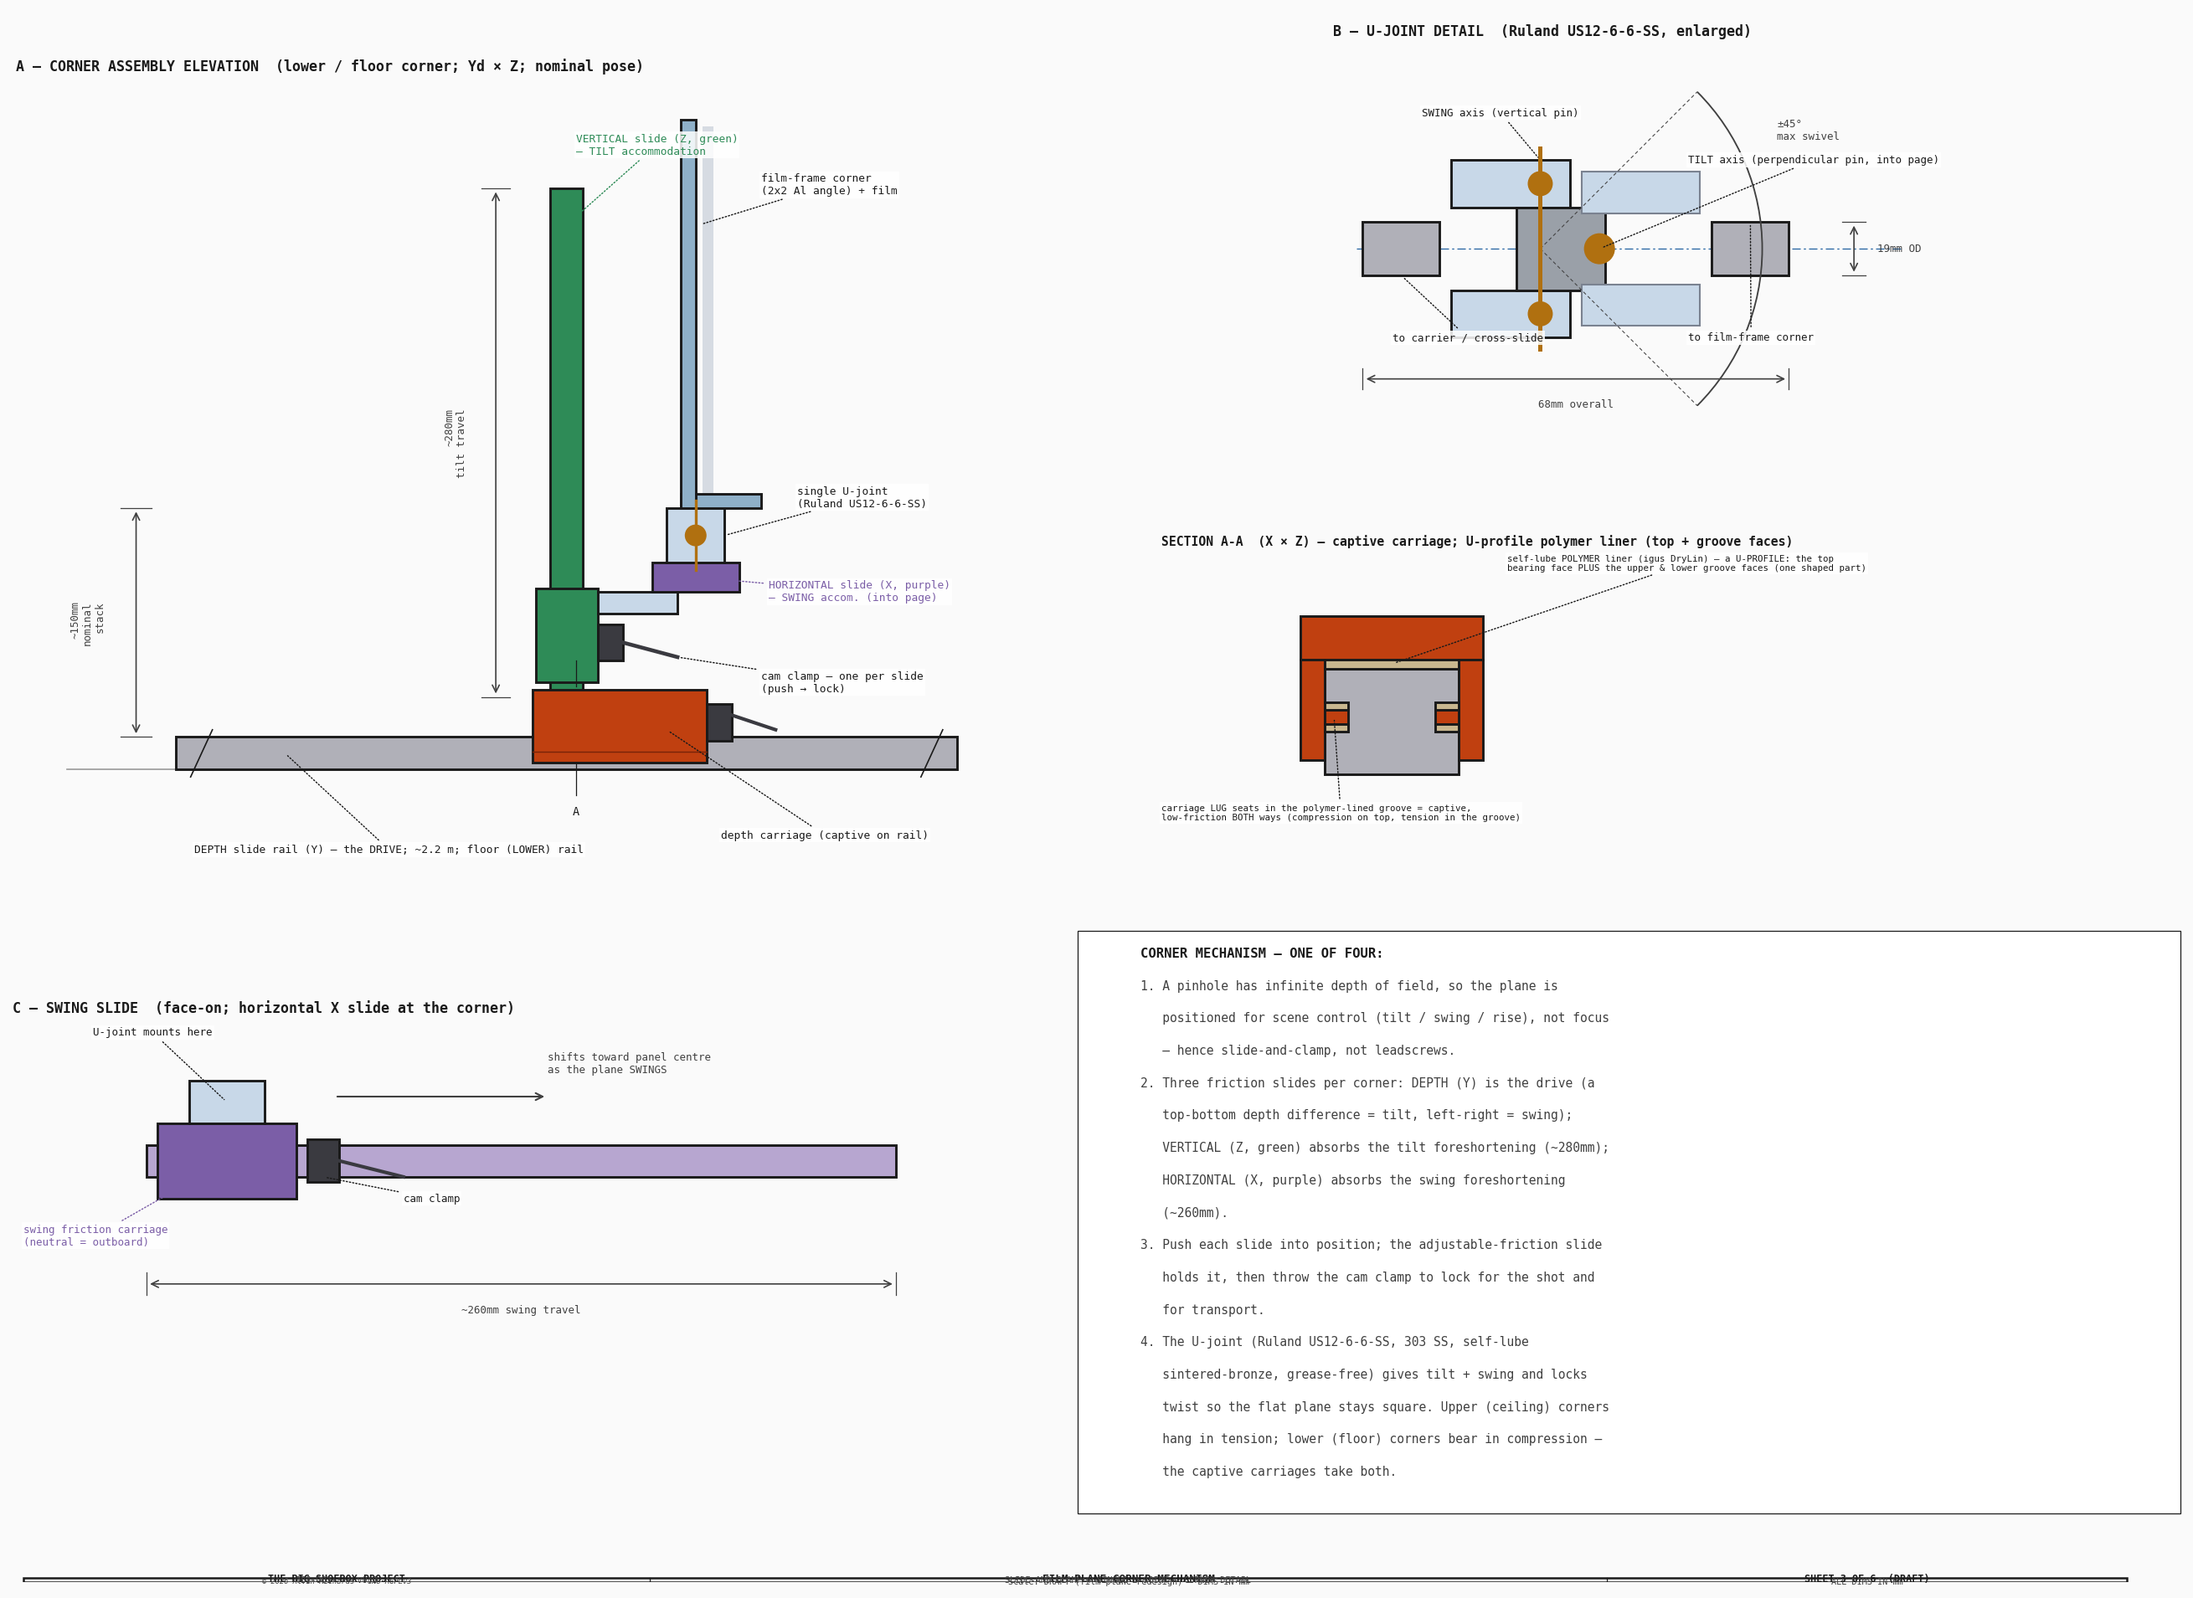
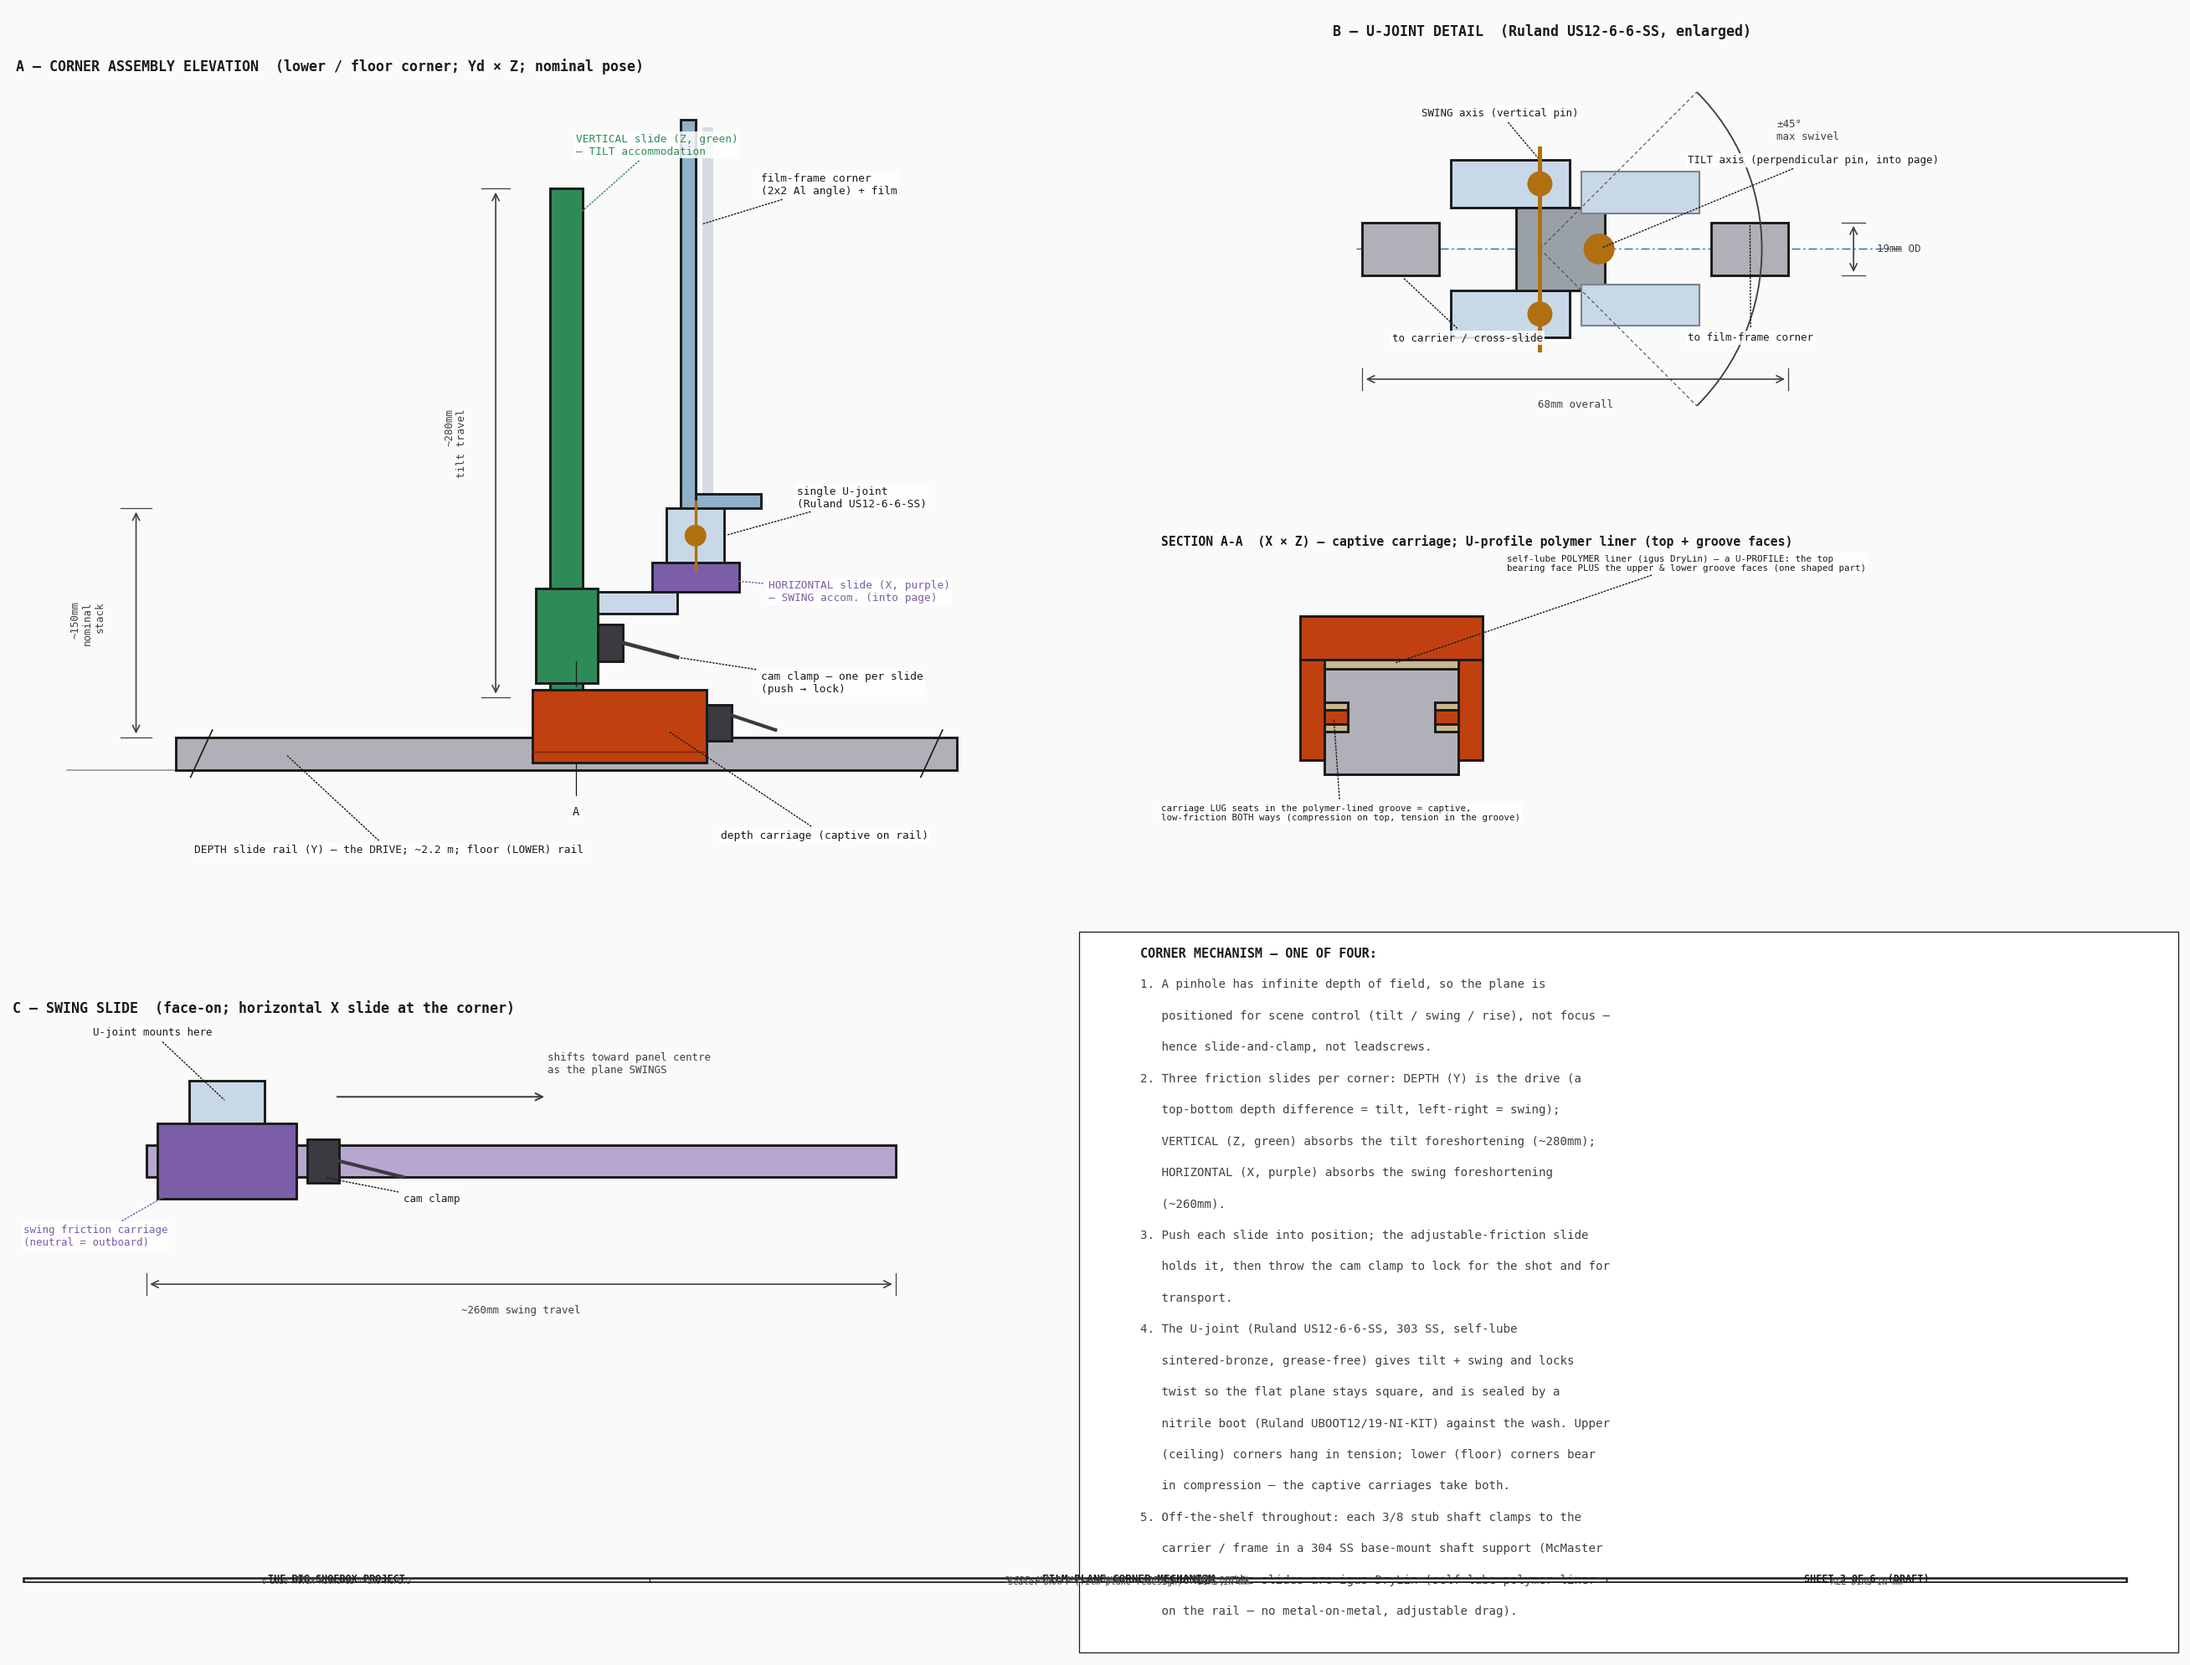
2D + rationale: reflect 4040N12 (base-mount clamp) + boot; drop flange refs
Sweep stale references now the stub->carrier is the McMaster 4040N12 base-mount
clamp (not the flange sketch, not the 6483K52 bearing):
- rationale result list: 2x base-mount shaft support (4040N12, 304 SS) + 2x
  3/8 304 SS stub shaft + boot; drop "flange-mount shaft support"
- U-joint section labels: stub "clamped to" the carrier/frame (not "bolts to")
- sheet 3 notes: U-joint sealed by the nitrile boot; new note 5 (off-the-shelf
  throughout — 4040N12 stub clamp + igus DryLin polymer slides)

diff --git a/src/generators/generate_corner_detail.py b/src/generators/generate_corner_detail.py
@@ -332,9 +332,9 @@ def draw_ujoint_section():
                perpendicular=True, font=FONT)
 
     # ── leaders ──
-    leader(ax, -46, 0, -68, 22, "OUR carrier stub shaft (we add)\n→ bolts to the cross-slide carriage",
+    leader(ax, -46, 0, -68, 22, "OUR carrier stub shaft (we add)\n→ clamped to the X-slide carriage (4040N12, below)",
            ha="left", fs=6.3, color=OUT, font=FONT, bbox=LBL_BG)
-    leader(ax, 48, 0, 50, 22, "OUR frame stub shaft (we add)\n→ bolts to the film-frame corner",
+    leader(ax, 48, 0, 50, 22, "OUR frame stub shaft (we add)\n→ clamped to the film-frame corner",
            ha="left", fs=6.3, color=OUT, font=FONT, bbox=LBL_BG)
     leader(ax, 30, 8, 42, 33, "hub SET SCREWS lock the\nstub shaft on a flat (both hubs)",
            ha="left", fs=6.3, color=OUT, font=FONT, bbox=LBL_BG)
@@ -399,9 +399,13 @@ def draw_sheet():
         "3. Push each slide into position; the adjustable-friction slide holds it, then throw the "
         "cam clamp to lock for the shot and for transport.",
         "4. The U-joint (Ruland US12-6-6-SS, 303 SS, self-lube sintered-bronze, grease-free) gives "
-        "tilt + swing and locks twist so the flat plane stays square. Upper (ceiling) corners hang "
-        "in tension; lower (floor) corners bear in compression — the captive carriages take both.",
-    ], 2, 96, 6.2, fs=7, title_fs=7.5, color=DIM, width=96, wrap=64, font=FONT)
+        "tilt + swing and locks twist so the flat plane stays square, and is sealed by a nitrile boot "
+        "(Ruland UBOOT12/19-NI-KIT) against the wash. Upper (ceiling) corners hang in tension; lower "
+        "(floor) corners bear in compression — the captive carriages take both.",
+        "5. Off-the-shelf throughout: each 3/8 stub shaft clamps to the carrier / frame in a 304 SS "
+        "base-mount shaft support (McMaster 4040N12); the slides are igus DryLin (self-lube polymer "
+        "liner on the rail — no metal-on-metal, adjustable drag).",
+    ], 2, 96, 6.0, fs=6.8, title_fs=7.3, color=DIM, width=96, wrap=66, font=FONT)
 
     ax_tb = fig.add_axes([0.03, 0.008, 0.94, 0.06])
     ax_tb.set_xlim(0, 1); ax_tb.set_ylim(0, 1); ax_tb.axis("off")

diff --git a/film-plane-corner-rationale.md b/film-plane-corner-rationale.md
@@ -127,8 +127,11 @@ Per corner (×4):
 - **1 × single universal joint** — [Ruland US12-6-6-SS](https://www.ruland.com/us12-6-6-ss.html): 303
   stainless, self-lubricating **sintered-bronze plain bearing**, **45° max articulation**, 3/8" bore,
   68 mm long, grease-free — the off-the-shelf 2-axis torsion-locked pivot (~$195, in stock)
-- **2 × stub-shaft mount** — a short 3/8" stub + flange-mount shaft support at each yoke: one to the
-  floating X slide, one to the film-frame corner (off-the-shelf clamp, not a precision-reamed gimbal)
+- **2 × base-mount shaft support** — [McMaster 4040N12](https://www.mcmaster.com/4040N12/), 304 SS,
+  clamps a 3/8" stub (removable cap + two 6-32 screws): one to the floating X slide, one to the
+  film-frame corner (off-the-shelf clamp, not a precision-reamed gimbal)
+- **2 × stub shaft** — 3/8" (9.5 mm) 304 SS rod, ~60 mm each: one end into the U-joint hub (set-screw
+  locked), the other clamped in the shaft support
 - **1 × protective boot** — [Ruland UBOOT12/19-NI-KIT](https://www.ruland.com/uboot12-19-ni-kit.html):
   nitrile single bellows, zip-tied to each yoke; fitted **dry** to seal the bronze bearings from the wash
 - **Depth (Y): friction slide (~2.2 m) + cam clamp** — produces tilt + swing (+ focus); push, then lock
